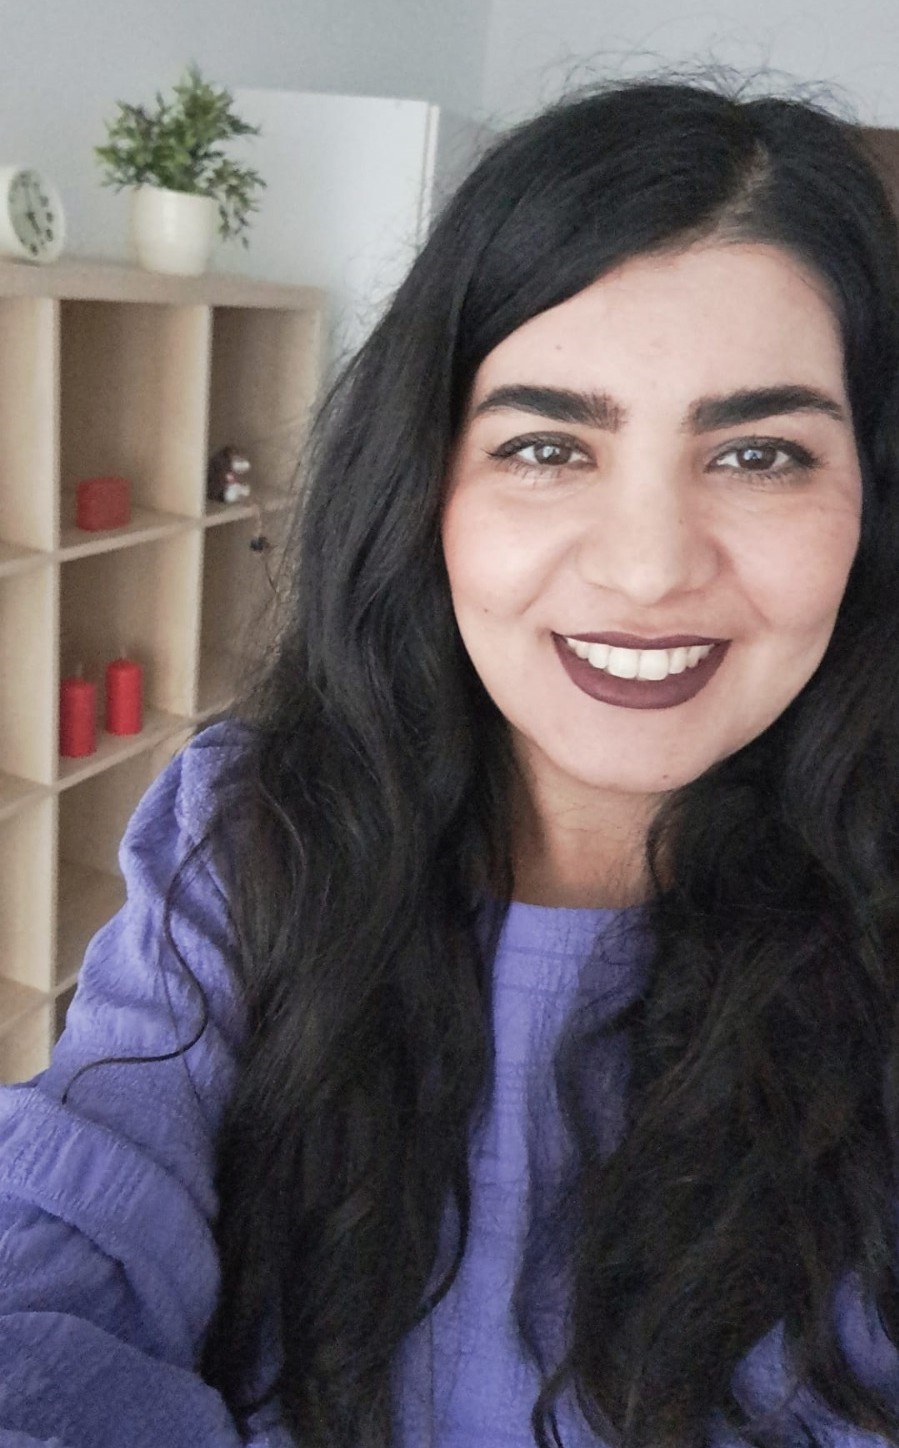
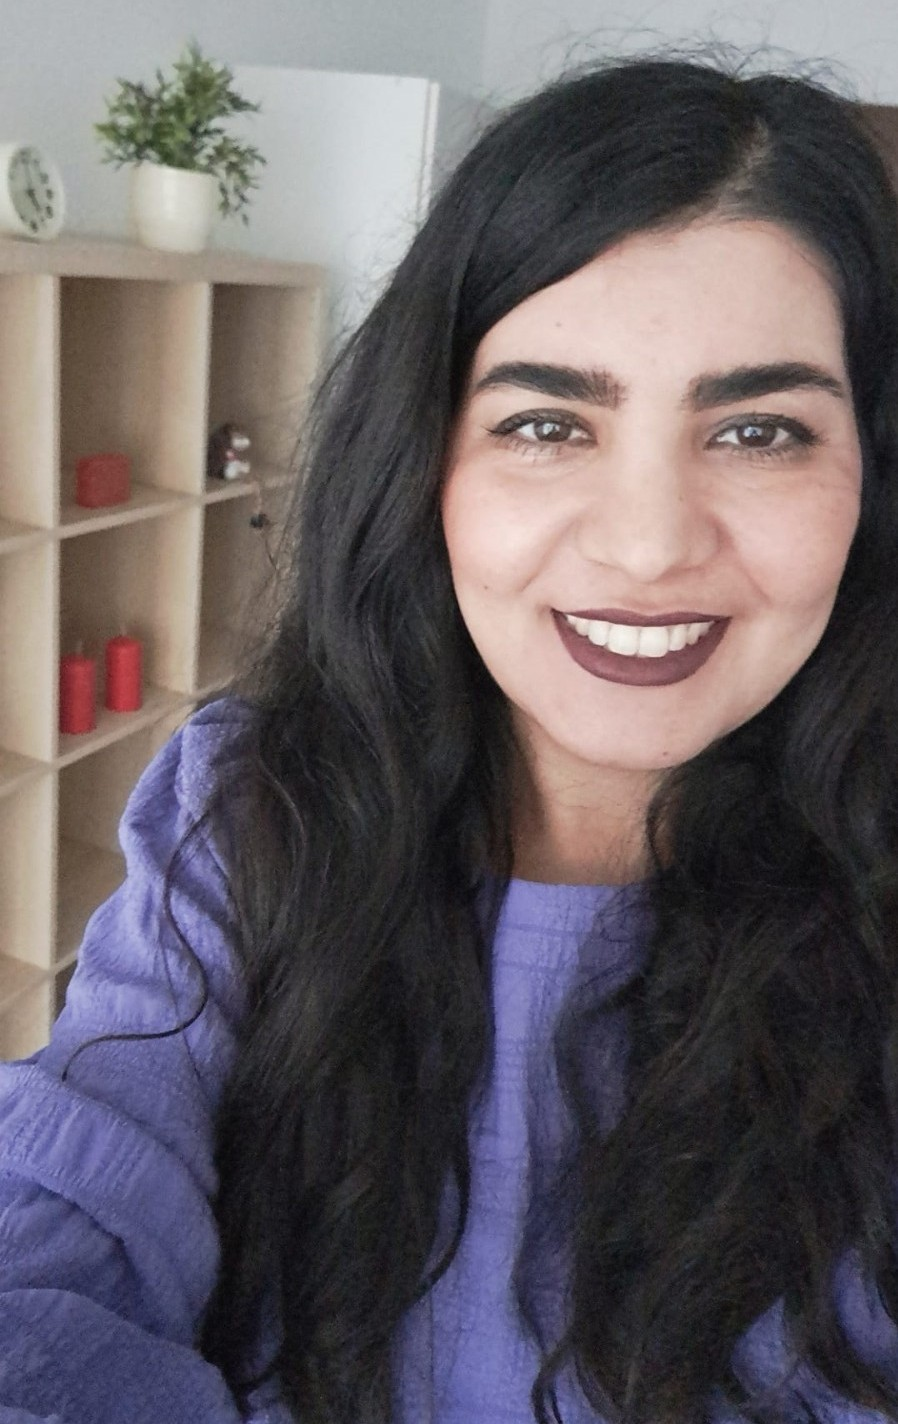
updates

diff --git a/index.html b/index.html
@@ -68,7 +68,7 @@
             
             <td style="padding:2.5%;width:40%;max-width:40%">
             
-              <img style="width:88%;max-width:88%" alt="profile photo" src="images/fatemeh1.jpeg">
+              <img style="width:90%; max-width:100%" alt="profile photo" src="images/fatemeh1.jpeg">
             </td>
           </tr>
         </tbody></table>
